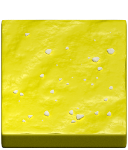
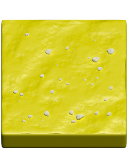
tightened up tile placement and spacing, re-rednered most tiles to fix lighting

diff --git a/js/controllers.js b/js/controllers.js
@@ -19,7 +19,7 @@ function mapController($scope) {
     },
     plain:{
       id:'plain',
-      art:[terrainAssetPath+"plain_0.png", terrainAssetPath+"plain_1.png"],
+      art:[terrainAssetPath+"plain_0.png", terrainAssetPath+"plain_1.png", terrainAssetPath+"plain_2.png"],
       artVariant:0,
       label:'plain'
     },
@@ -37,7 +37,7 @@ function mapController($scope) {
     },
     mountain:{
       id:'mountain',
-      art:[terrainAssetPath+"mountain.png"],
+      art:[terrainAssetPath+"mountain_0.png",terrainAssetPath+"mountain_1.png"],
       artVariant:0,
       label:'mountain'
     },
@@ -49,7 +49,7 @@ function mapController($scope) {
     },
     forrest:{
       id:'forrest', 
-      art:[terrainAssetPath+"forrest_0.png", terrainAssetPath+"forrest_1.png"],
+      art:[terrainAssetPath+"forrest_0.png", terrainAssetPath+"forrest_1.png", terrainAssetPath+"forrest_2.png"],
       artVariant:0,
       label:'forrest'
     }
@@ -173,7 +173,7 @@ function mapController($scope) {
   }
 
   // called to init the map
-  
+
   $scope.map = $scope.setUpMap();
 
 

diff --git a/css/meta.less b/css/meta.less
@@ -3,7 +3,7 @@
 
 
 @mapCellWidth: 62px;
-@mapCellHeight:56px;
+@mapCellHeight:58px;
 @assetWidth: 64px;
 @assetHeight: 75px;
 
